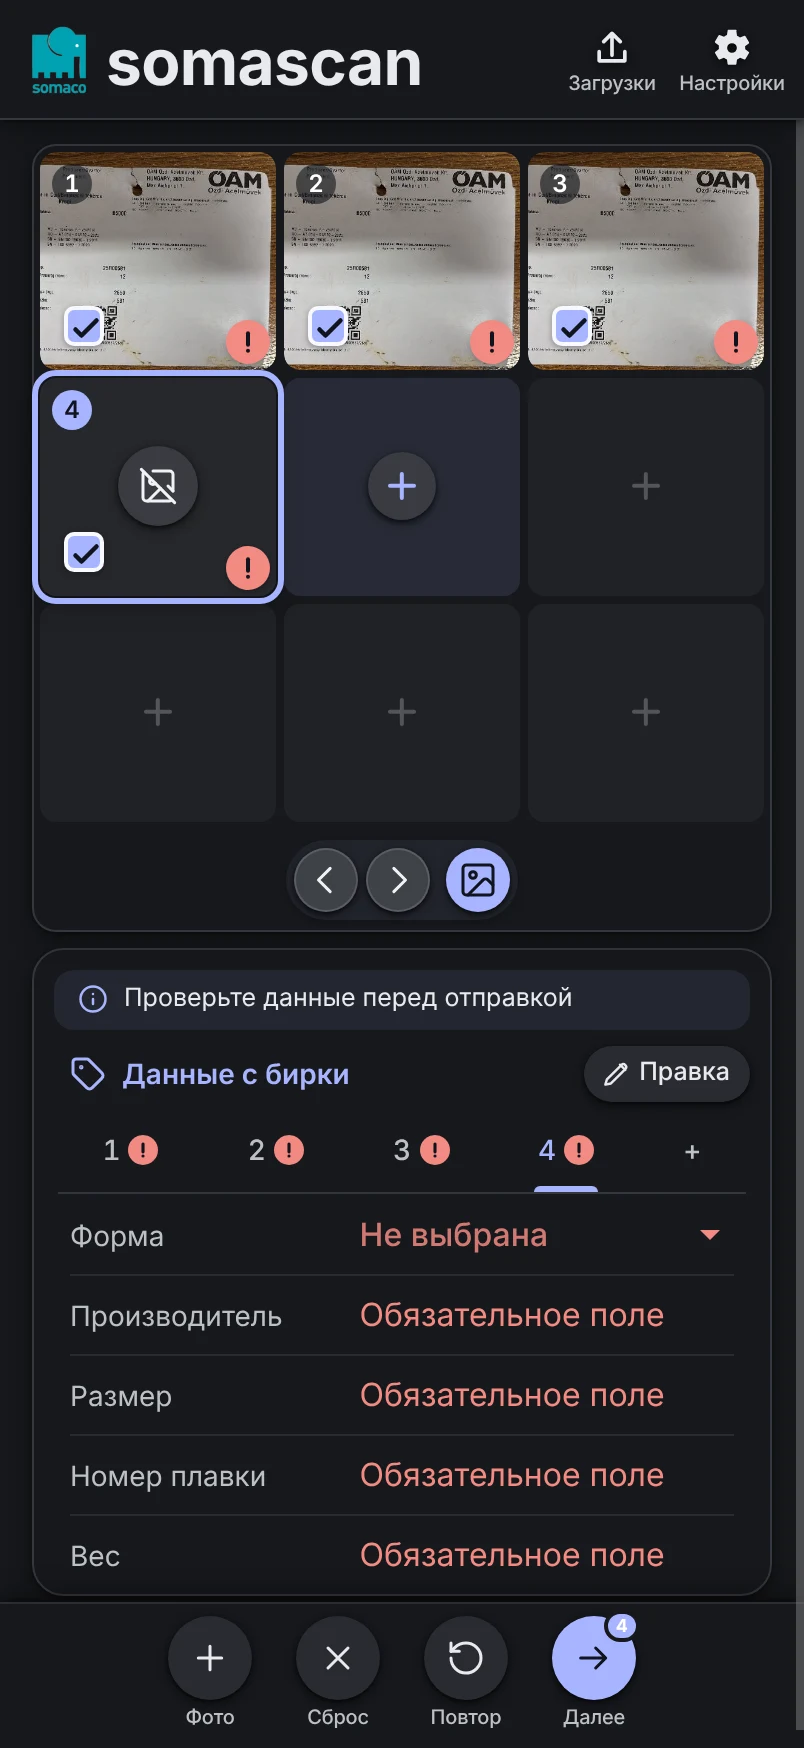
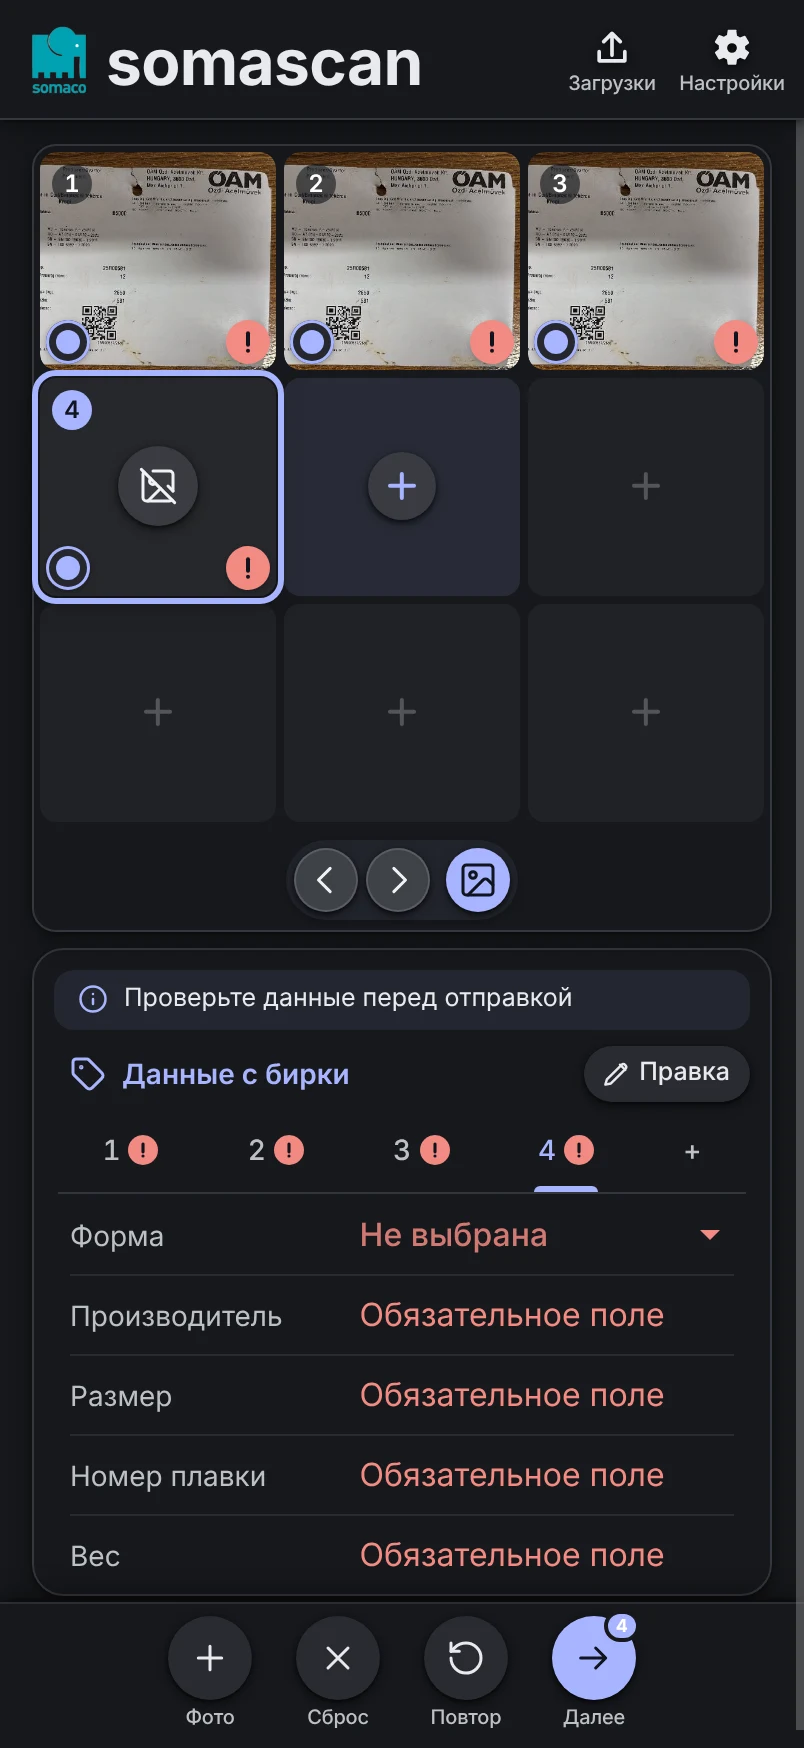
fix: + Grid: the original selection radio (light ring, accent dot when selected) is back instead of the checkbox, 22 px instead of 26 and almost in the bottom left corner — 3 px from the edges, mirroring the status badge on the right (--photo-grid-corner-inset) + Tabs: the Material indicator keeps a

diff --git a/src/features/workspace/components/PhotoGrid.css b/src/features/workspace/components/PhotoGrid.css
@@ -3,7 +3,7 @@
  * и недоступные ячейки (заполняются только по порядку).
  * Карточка анимирует переход между сеткой и одной биркой (transform от левого верхнего угла).
  *
- * Отметки: выбранная для отправки — флажок с галочкой и неприглушённая миниатюра (номер нейтральный),
+ * Отметки: выбранная для отправки — «радиокнопка» с точкой и неприглушённая миниатюра (номер нейтральный),
  * открытая — сплошная акцентная обводка с тенью и номер того же цвета: сразу видно, на какой бирке стоишь.
  */
 
@@ -13,6 +13,8 @@
    * с зазором 1 px) помещается в промежуток и в поле.
    */
   --photo-grid-gap: 4px;
+  /* Отступ значков в нижних углах ячейки (выбор слева, состояние справа) от её краёв: почти в самом углу. */
+  --photo-grid-corner-inset: 3px;
   /* Ячейки концентричны блоку фото: его скругление минус поле сетки (на iOS блок круглее — и ячейки тоже). */
   --photo-grid-radius: calc(var(--photo-radius) - var(--photo-grid-gap));
   /*
@@ -138,7 +140,7 @@
 
 /*
  * Открытая бирка — сплошная акцентная обводка снаружи ячейки, без свечения, и тень под ней: ячейка приподнята
- * над соседними. От флажка выбранных отличается формой, от цветов состояний — цветом. Та же обводка — у рамки,
+ * над соседними. От отметки выбранных отличается формой, от цветов состояний — цветом. Та же обводка — у рамки,
  * которую ведёт палец (`.photo-grid-frame`).
  */
 .photo-grid-cell.is-active {
@@ -242,8 +244,8 @@
 .photo-grid-badge {
   position: absolute;
   z-index: 2;
-  right: 3px;
-  bottom: 3px;
+  right: var(--photo-grid-corner-inset);
+  bottom: var(--photo-grid-corner-inset);
   display: grid;
   width: 22px;
   height: 22px;
@@ -287,7 +289,7 @@
   stroke-width: 3;
 }
 
-/* Значок выбора для отправки — в левом нижнем углу (область нажатия больше значка). */
+/* Значок выбора для отправки — в левом нижнем углу, почти в самом углу (область нажатия больше значка). */
 .photo-grid-select {
   position: absolute;
   z-index: 4;
@@ -296,8 +298,8 @@
   display: grid;
   width: 44px;
   height: 44px;
-  place-items: center;
-  padding: 0;
+  place-items: end start;
+  padding: 0 0 var(--photo-grid-corner-inset) var(--photo-grid-corner-inset);
   background: transparent;
   border: 0;
   border-radius: 0 50% 0 0;
@@ -306,46 +308,45 @@
 }
 
 /*
- * Выбор для отправки — флажок в духе Material (скруглённый квадрат с галочкой) с белой кромкой в обоих состояниях:
- * так он читается как флажок, который ставят и снимают нажатием, а не как значок. У выбранной бирки — залит
- * акцентом, с галочкой; у остальных пустой на полупрозрачной подложке (миниатюра притушена). Не кольцо с точкой:
- * девять одинаковых «радиокнопок» смотрели с сетки, как глаза; и не круг с галочкой — такой у готовой бирки
- * (зелёный, в правом нижнем углу).
+ * Выбор — «радиокнопка», как в системных диалогах: светлое кольцо, у выбранной бирки — акцентная точка.
+ * В тёмной теме — тёмный круг со светлым кольцом. Почти в самом углу ячейки — напротив значка состояния, с тем же
+ * отступом от краёв (`--photo-grid-corner-inset`).
  */
-.photo-grid-check {
-  display: grid;
-  box-sizing: border-box;
-  width: 20px;
-  height: 20px;
-  place-items: center;
-  color: var(--on-accent);
-  background: rgb(0 0 0 / 28%);
-  border: 2px solid rgb(255 255 255 / 92%);
-  border-radius: 5px;
-  box-shadow: 0 1px 3px rgb(0 0 0 / 30%);
-  transition: background-color 160ms ease;
+.photo-grid-radio {
+  --radio-bg: #fff;
+  --radio-ring: rgb(0 0 0 / 28%);
+  --radio-dot: #536dfe;
+  position: relative;
+  display: block;
+  width: 22px;
+  height: 22px;
+  background: var(--radio-bg);
+  border-radius: 50%;
+  box-shadow: inset 0 0 0 1.5px var(--radio-ring), 0 1px 3px rgb(0 0 0 / 30%);
 }
 
-.photo-grid-check svg {
-  width: 13px;
-  height: 13px;
-  fill: none;
-  stroke: currentColor;
-  stroke-width: 3;
-  stroke-linecap: round;
-  stroke-linejoin: round;
-  opacity: 0;
-  transform: scale(.6);
-  transition: opacity 160ms ease, transform 160ms cubic-bezier(.2, 0, 0, 1);
+:root[data-theme='dark'] .photo-grid-radio {
+  --radio-bg: #26282e;
+  --radio-ring: rgb(255 255 255 / 45%);
+  --radio-dot: var(--accent);
 }
 
-.photo-grid-cell.is-selected .photo-grid-check {
-  background: var(--accent);
+.photo-grid-radio::after {
+  content: '';
+  position: absolute;
+  inset: 5px;
+  background: var(--radio-dot);
+  border-radius: 50%;
+  transform: scale(0);
+  transition: transform 160ms cubic-bezier(.2, 0, 0, 1);
 }
 
-.photo-grid-cell.is-selected .photo-grid-check svg {
-  opacity: 1;
-  transform: none;
+.photo-grid-cell.is-selected .photo-grid-radio {
+  --radio-ring: var(--radio-dot);
+}
+
+.photo-grid-cell.is-selected .photo-grid-radio::after {
+  transform: scale(1);
 }
 
 /* Пустые ячейки: следующая свободная — тональная с «плюсом», дальше — недоступные. */

diff --git a/src/features/workspace/components/PhotoGrid.tsx b/src/features/workspace/components/PhotoGrid.tsx
@@ -33,8 +33,8 @@ export interface PhotoGridProps {
  * Сетка 3 × 3 в карточке фото: бирки по порядку (миниатюра или, у бирки без фото, перечёркнутая картинка; номер, состояние),
  * следующая свободная ячейка — «плюс», дальше — недоступные ячейки: заполнять можно только по порядку.
  *
- * Выбор для отправки — флажок с белой кромкой в левом нижнем углу (у выбранной бирки — с галочкой,
- * у остальных пустой, миниатюра притушена),
+ * Выбор для отправки — «радиокнопка» почти в самом левом нижнем углу (кольцо, у выбранной бирки — точка;
+ * у остальных миниатюра притушена),
  * открытая бирка — в акцентной обводке. Состояние — в правом нижнем:
  * спиннер (распознаётся), галочка (готова), красный «!» (не выбрана форма), жёлтый «!» (не распознаны обязательные
  * поля, плавка повторяется или нет фото), красный знак (ошибка).
@@ -140,7 +140,7 @@ export function PhotoGrid({ gridRef, items, activeIndex, hidden, interactive, on
               aria-label={t('grid.select', { number })}
               onClick={() => onToggleSelected(index)}
             >
-              <span className="photo-grid-check" aria-hidden="true"><CheckIcon /></span>
+              <span className="photo-grid-radio" aria-hidden="true" />
             </button>
           </div>
         )

diff --git a/src/components/ui/Tabs.css b/src/components/ui/Tabs.css
@@ -71,6 +71,12 @@
   background: var(--accent);
   border-radius: 3px 3px 0 0;
   pointer-events: none;
+  /*
+   * Постоянный слой композитора: иначе браузер заводит его только на время переезда, и в начале (пока слой ещё не
+   * отрисован — в то же время монтируется новая вкладка) и в конце переезда полоска на кадр-два пропадала.
+   * Liquid Glass переопределяет (platform-ios.css).
+   */
+  will-change: translate;
 }
 
 .tabs-indicator.is-animated {
